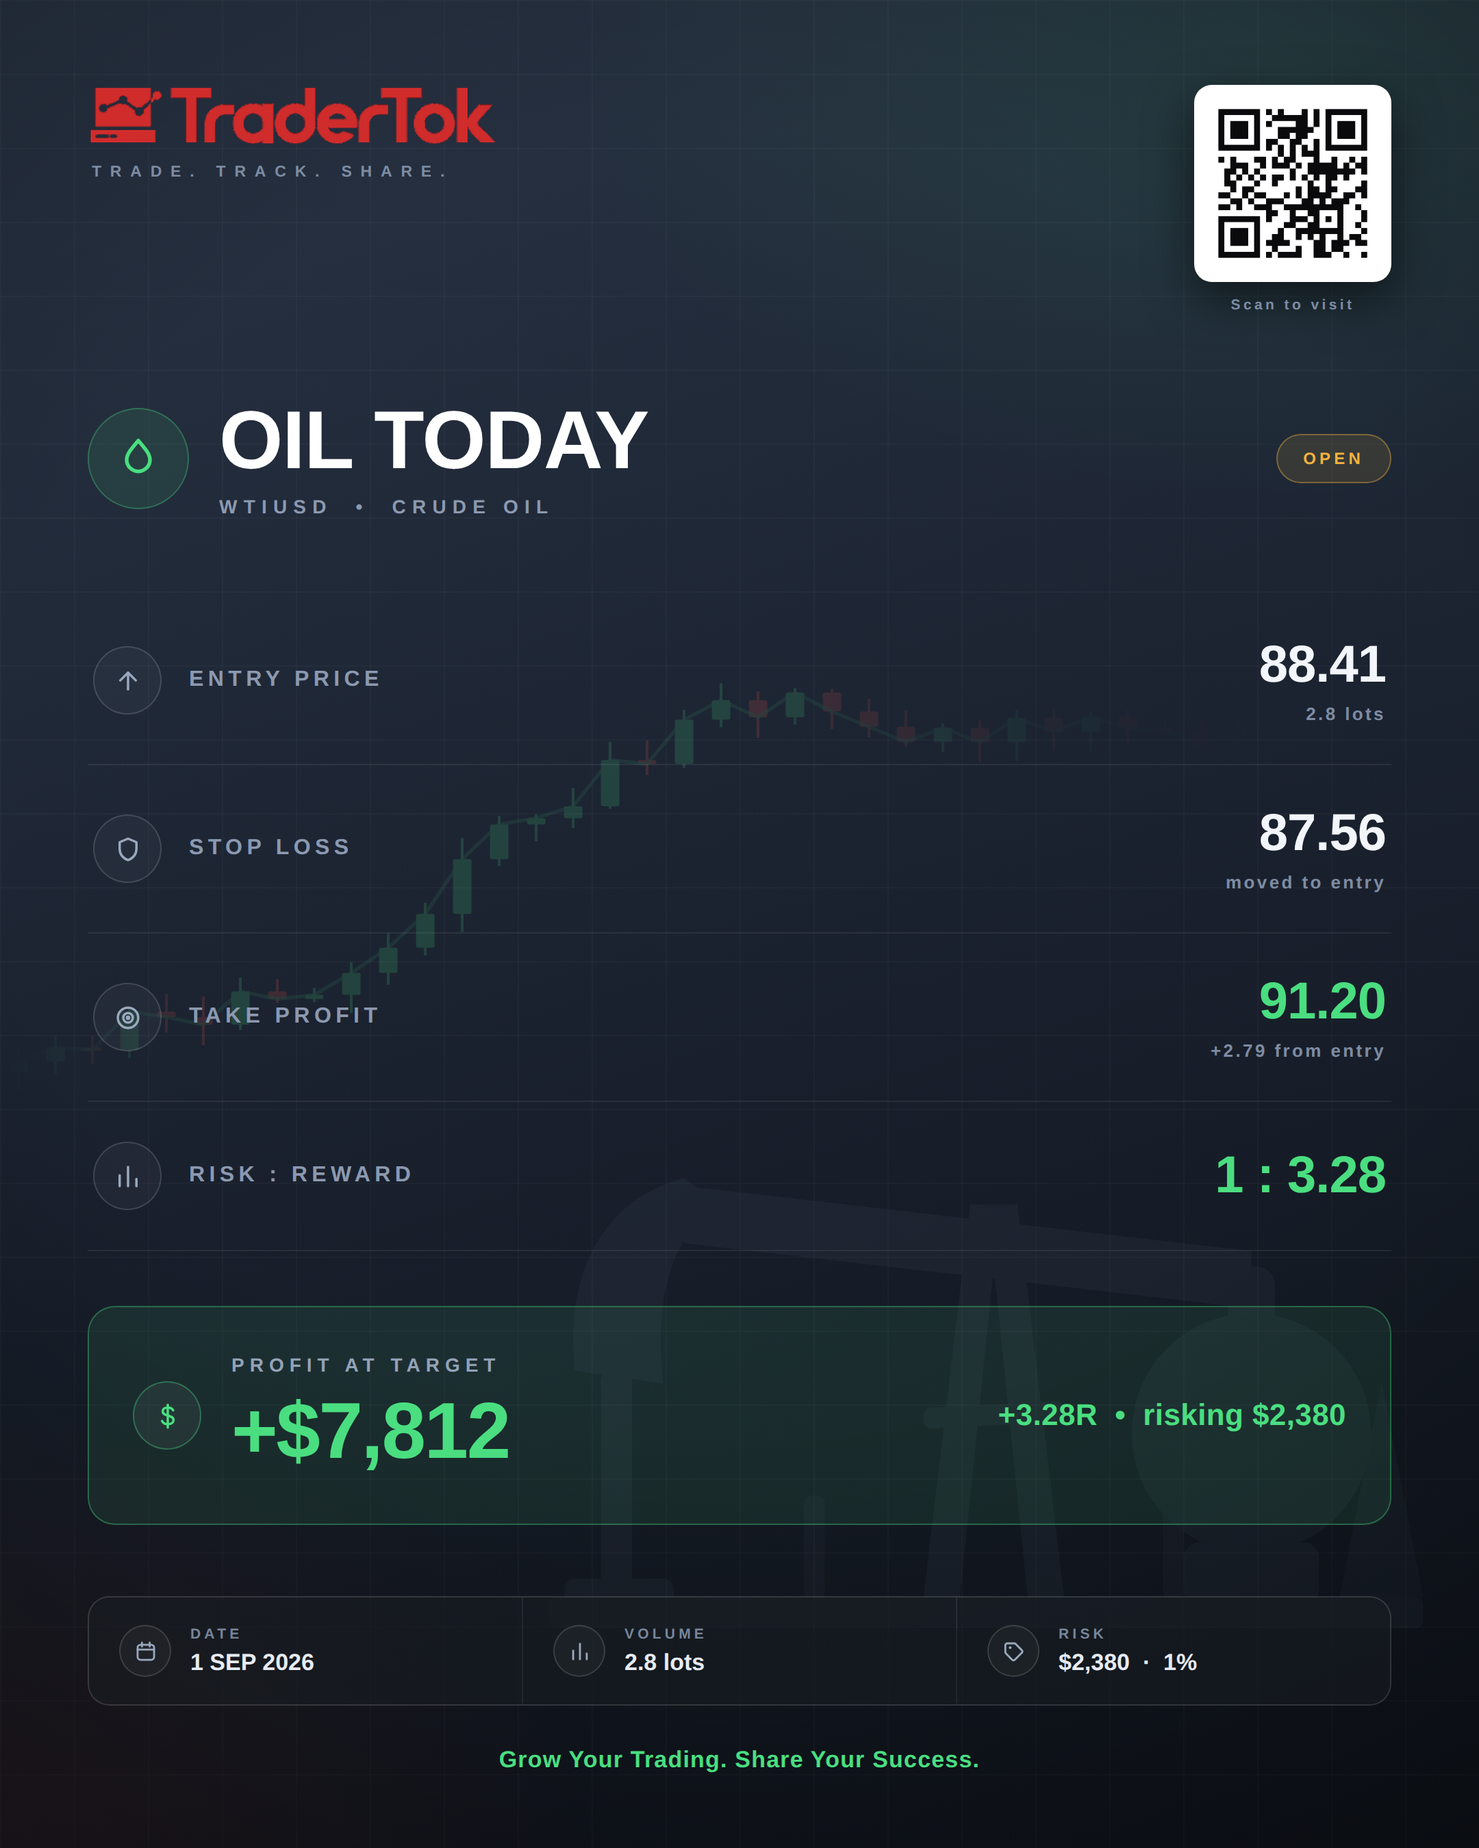
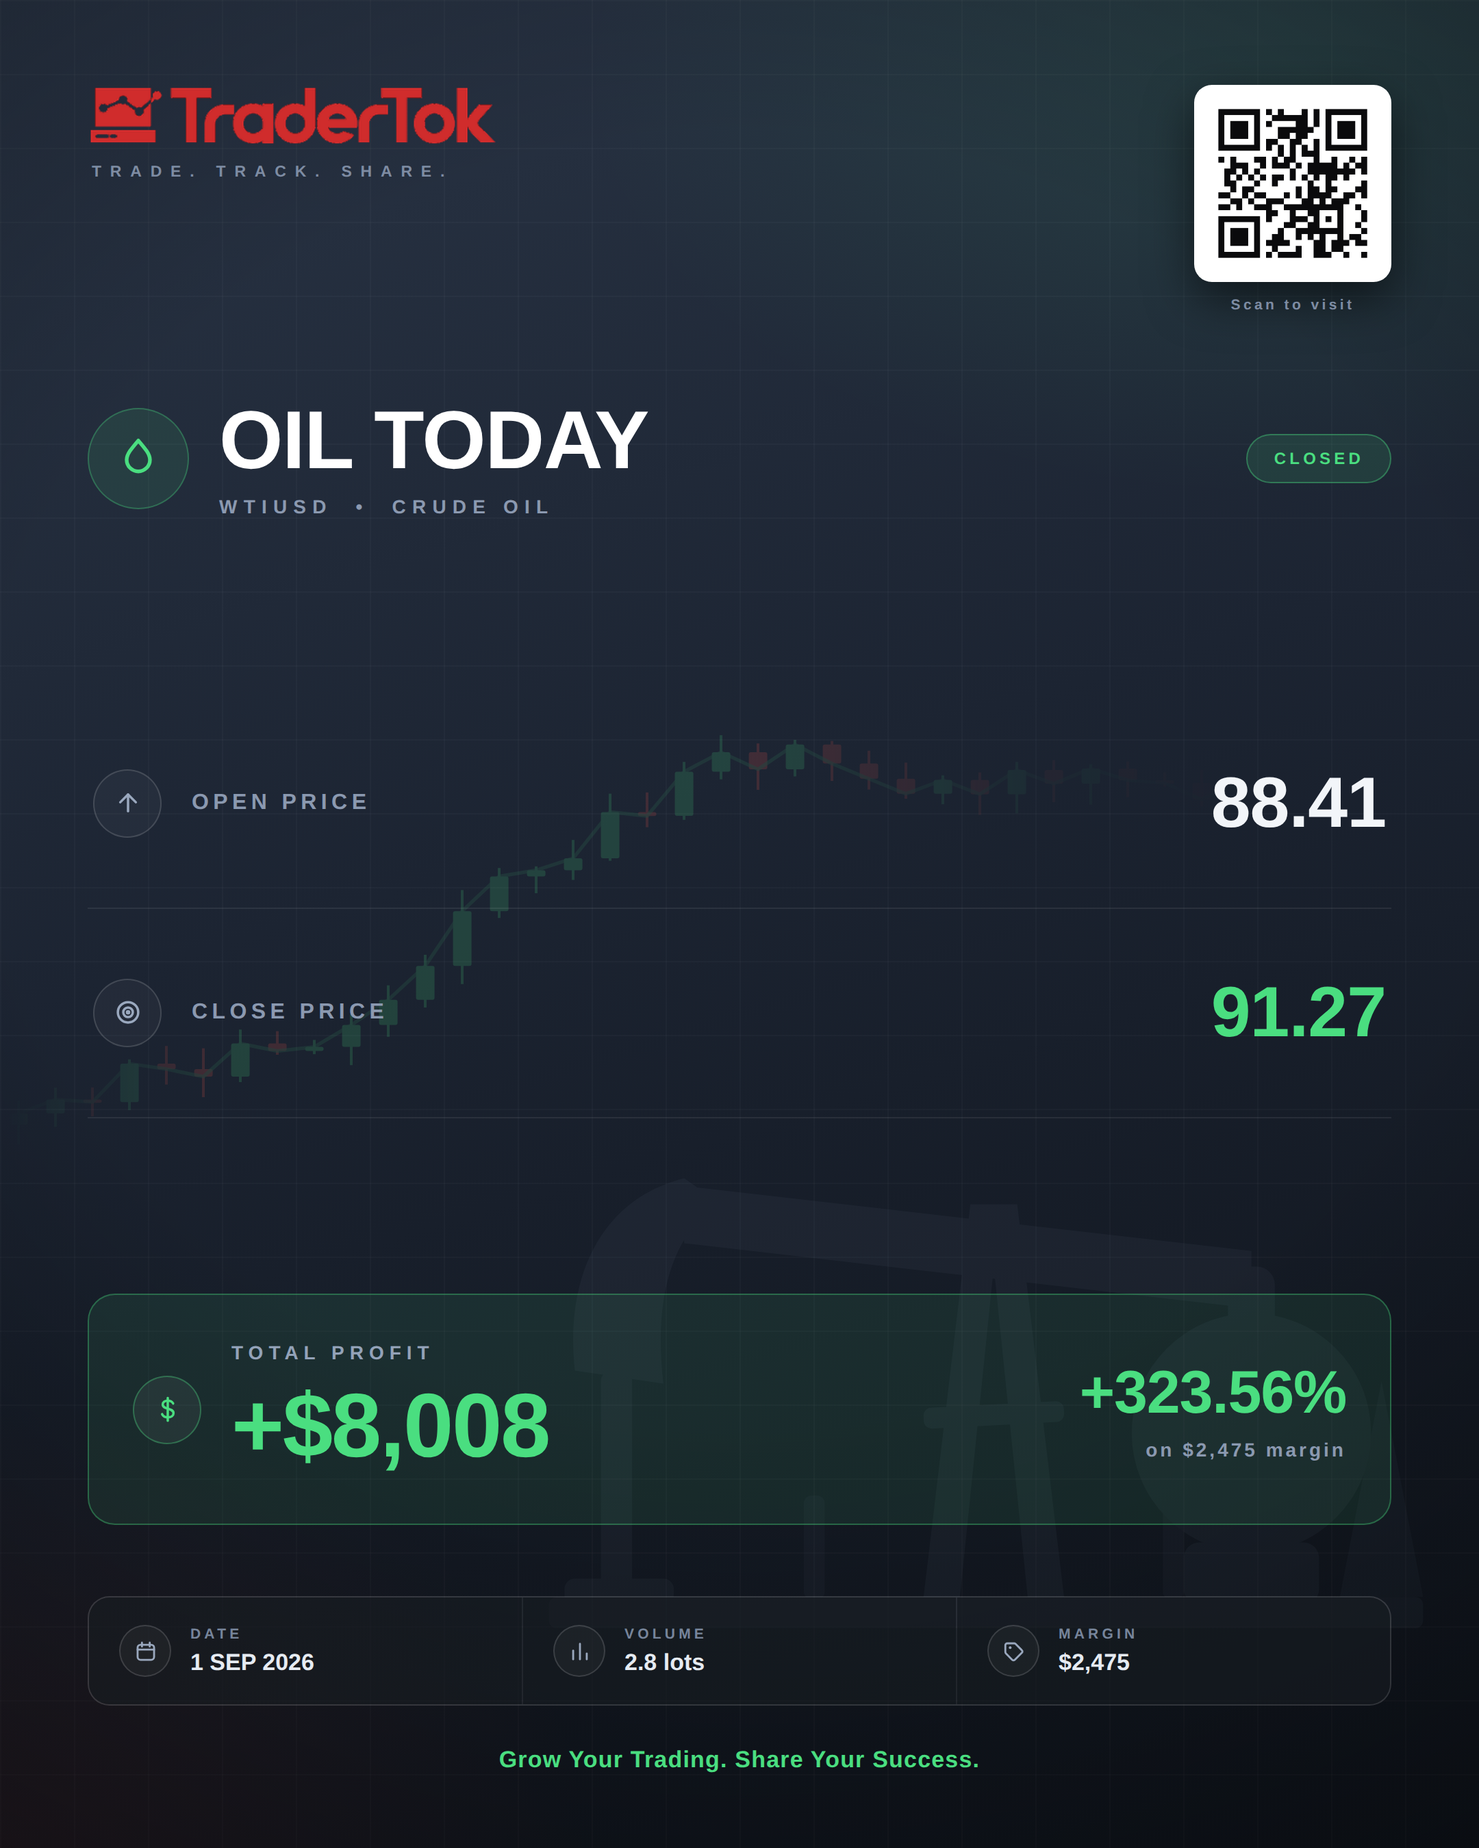
Reduce the performance card to open, close and total profit
Strips the stop loss, take profit and risk:reward rows. The card now
carries two price rows and one result panel holding the money and the
percentage side by side, with the margin it was earned on named beneath.

The two remaining rows flex into the space the removed ones freed rather
than leaving a gap above the footer, and the footer's risk column becomes
margin.

Rendered with a 91.27 close, the figure from the reference mockup, since
no real exit price has been supplied yet.

Claude-Session: https://claude.ai/code/session_01Fam1anDvbAYtoP9HG3kncU

diff --git a/trading/card/trader-tok-card.html b/trading/card/trader-tok-card.html
@@ -13,7 +13,7 @@ body{width:1080px;height:1350px;background:#0A0D13;overflow:hidden;
  background-size:54px 54px;}
 .rig{position:absolute;right:-58px;bottom:96px;opacity:.055;
  transform:scale(1.9);transform-origin:bottom right;}
-.cnd{position:absolute;left:0;right:0;top:392px;height:430px;opacity:.17;
+.cnd{position:absolute;left:0;right:0;top:430px;height:470px;opacity:.17;
  -webkit-mask-image:linear-gradient(to right,transparent 0%,#000 14%,#000 52%,
    rgba(0,0,0,.28) 70%,transparent 86%);}
 .vig{position:absolute;inset:0;
@@ -37,11 +37,11 @@ body{width:1080px;height:1350px;background:#0A0D13;overflow:hidden;
 .h1{font-size:60px;font-weight:700;color:#fff;letter-spacing:-.6px;line-height:1.04}
 .h2{font-size:14px;letter-spacing:4.6px;color:#8B99B0;font-weight:700;margin-top:9px}
 .chip{margin-left:auto;font-size:12px;font-weight:700;letter-spacing:2.6px;
- padding:10px 19px;border-radius:999px;color:#F2B23E;
- background:rgba(242,178,62,.12);border:1.5px solid rgba(242,178,62,.38)}
+ padding:10px 19px;border-radius:999px;color:#4ADE80;
+ background:rgba(74,222,128,.12);border:1.5px solid rgba(74,222,128,.38)}
 
-.rows{margin-top:58px}
-.row{display:flex;align-items:center;gap:20px;padding:29px 4px;
+.rows{margin-top:56px;flex:1;display:flex;flex-direction:column;justify-content:center}
+.row{display:flex;align-items:center;gap:22px;padding:46px 4px;
  border-bottom:1px solid rgba(255,255,255,.075)}
 .ic{width:50px;height:50px;border-radius:50%;flex:0 0 50px;display:flex;
  align-items:center;justify-content:center;border:1.5px solid rgba(255,255,255,.14);
@@ -49,21 +49,23 @@ body{width:1080px;height:1350px;background:#0A0D13;overflow:hidden;
 .ic.tiny{width:38px;height:38px;flex:0 0 38px}
 .ic.tiny svg{width:17px;height:17px}
 .rl{font-size:16px;letter-spacing:3.2px;color:#8B99B0;font-weight:700}
-.rv{margin-left:auto;text-align:right;font-size:38px;font-weight:700;
+.rv{margin-left:auto;text-align:right;font-size:52px;font-weight:700;
  letter-spacing:-.5px;color:#F2F5F9}
 .rv.good{color:#4ADE80} .rv.bad{color:#F0574B}
 .rs{display:block;font-size:13px;letter-spacing:1.7px;color:#7E8CA3;
  font-weight:700;margin-top:6px}
 
-.hl{margin-top:40px;display:flex;align-items:center;gap:22px;padding:34px 32px;
+.hl{margin-top:52px;display:flex;align-items:center;gap:22px;padding:34px 32px;
  border-radius:20px;background:rgba(74,222,128,.09);border:1.6px solid rgba(74,222,128,.34)}
 .hl .ic{border-color:rgba(74,222,128,.34);color:#4ADE80;background:rgba(255,255,255,.05)}
 .hk{font-size:14px;letter-spacing:4px;color:#93A2B8;font-weight:700}
-.hv{font-size:58px;font-weight:700;color:#4ADE80;letter-spacing:-1.2px;margin-top:7px}
-.hs{margin-left:auto;text-align:right;font-size:22px;font-weight:700;color:#4ADE80;
- letter-spacing:.2px}
+.hv{font-size:66px;font-weight:700;color:#4ADE80;letter-spacing:-1.2px;margin-top:7px}
+.hs{margin-left:auto;text-align:right;font-size:44px;font-weight:700;color:#4ADE80;
+ letter-spacing:-.6px}
+.hn{display:block;font-size:14px;font-weight:700;color:#8B99B0;letter-spacing:2px;
+ margin-top:8px}
 
-.foot{margin-top:auto;margin-bottom:2px;display:flex;gap:1px;background:rgba(255,255,255,.08);
+.foot{margin-top:52px;margin-bottom:2px;display:flex;gap:1px;background:rgba(255,255,255,.08);
  border:1px solid rgba(255,255,255,.08);border-radius:16px;overflow:hidden}
 .ft{flex:1;display:flex;align-items:center;gap:14px;padding:20px 22px;
  background:rgba(10,14,20,.55)}
@@ -105,17 +107,17 @@ body{width:1080px;height:1350px;background:#0A0D13;overflow:hidden;
         stroke="currentColor" stroke-width="1.9" stroke-linejoin="round"><path d="M12 2.7c3.6 4.2 6 7 6 9.9a6 6 0 1 1-12 0c0-2.9 2.4-5.7 6-9.9z"/></svg></div>
       <div><div class="h1">OIL TODAY</div>
            <div class="h2">WTIUSD &nbsp;&bull;&nbsp; CRUDE OIL</div></div>
-      <div class="chip">OPEN</div>
+      <div class="chip">CLOSED</div>
     </div>
 
-    <div class="rows"><div class="row"><div class="ic mute"><svg viewBox="0 0 24 24" width="21" height="21" fill="none" stroke="currentColor" stroke-width="2" stroke-linecap="round" stroke-linejoin="round"><path d="M12 19V5"/><path d="M5.5 11.5 12 5l6.5 6.5"/></svg></div><div class="rl">ENTRY PRICE</div><div class="rv val">88.41<span class="rs">2.8 lots</span></div></div><div class="row"><div class="ic mute"><svg viewBox="0 0 24 24" width="21" height="21" fill="none" stroke="currentColor" stroke-width="2" stroke-linecap="round" stroke-linejoin="round"><path d="M12 3 5 6v5.5c0 4.3 2.9 7.7 7 9.5 4.1-1.8 7-5.2 7-9.5V6z"/></svg></div><div class="rl">STOP LOSS</div><div class="rv val">87.56<span class="rs">moved to entry</span></div></div><div class="row"><div class="ic mute"><svg viewBox="0 0 24 24" width="21" height="21" fill="none" stroke="currentColor" stroke-width="2" stroke-linecap="round" stroke-linejoin="round"><circle cx="12" cy="12" r="8.5"/><circle cx="12" cy="12" r="4"/><circle cx="12" cy="12" r=".9" fill="currentColor"/></svg></div><div class="rl">TAKE PROFIT</div><div class="rv good">91.20<span class="rs">+2.79 from entry</span></div></div><div class="row"><div class="ic mute"><svg viewBox="0 0 24 24" width="21" height="21" fill="none" stroke="currentColor" stroke-width="2" stroke-linecap="round" stroke-linejoin="round"><path d="M5 20V11"/><path d="M12 20V4"/><path d="M19 20v-6"/></svg></div><div class="rl">RISK : REWARD</div><div class="rv good">1 : 3.28</div></div></div>
+    <div class="rows"><div class="row"><div class="ic mute"><svg viewBox="0 0 24 24" width="21" height="21" fill="none" stroke="currentColor" stroke-width="2" stroke-linecap="round" stroke-linejoin="round"><path d="M12 19V5"/><path d="M5.5 11.5 12 5l6.5 6.5"/></svg></div><div class="rl">OPEN PRICE</div><div class="rv val">88.41</div></div><div class="row"><div class="ic mute"><svg viewBox="0 0 24 24" width="21" height="21" fill="none" stroke="currentColor" stroke-width="2" stroke-linecap="round" stroke-linejoin="round"><circle cx="12" cy="12" r="8.5"/><circle cx="12" cy="12" r="4"/><circle cx="12" cy="12" r=".9" fill="currentColor"/></svg></div><div class="rl">CLOSE PRICE</div><div class="rv good">91.27</div></div></div>
 
     <div class="hl"><div class="ic mute"><svg viewBox="0 0 24 24" width="21" height="21" fill="none" stroke="currentColor" stroke-width="2" stroke-linecap="round" stroke-linejoin="round"><path d="M12 2.5v19"/><path d="M16.5 7.2c-.7-1.5-2.4-2.4-4.5-2.4-2.5 0-4.2 1.3-4.2 3.2 0 4.6 9 2.5 9 7.3 0 2-1.9 3.4-4.6 3.4-2.4 0-4.2-1-4.9-2.6"/></svg></div>
-      <div><div class="hk">PROFIT AT TARGET</div><div class="hv">+$7,812</div></div>
-      <div class="hs">+3.28R&nbsp;&nbsp;&bull;&nbsp;&nbsp;risking $2,380</div>
+      <div><div class="hk">TOTAL PROFIT</div><div class="hv">+$8,008</div></div>
+      <div class="hs">+323.56%<span class="hn">on $2,475 margin</span></div>
     </div>
 
-    <div class="foot"><div class="ft"><div class="ic tiny"><svg viewBox="0 0 24 24" width="21" height="21" fill="none" stroke="currentColor" stroke-width="2" stroke-linecap="round" stroke-linejoin="round"><rect x="3.5" y="5" width="17" height="15.5" rx="3"/><path d="M8 2.8v4M16 2.8v4M3.5 10h17"/></svg></div><div><div class="fk">DATE</div><div class="fv">1 SEP 2026</div></div></div><div class="ft"><div class="ic tiny"><svg viewBox="0 0 24 24" width="21" height="21" fill="none" stroke="currentColor" stroke-width="2" stroke-linecap="round" stroke-linejoin="round"><path d="M5 20V11"/><path d="M12 20V4"/><path d="M19 20v-6"/></svg></div><div><div class="fk">VOLUME</div><div class="fv">2.8 lots</div></div></div><div class="ft"><div class="ic tiny"><svg viewBox="0 0 24 24" width="21" height="21" fill="none" stroke="currentColor" stroke-width="2" stroke-linecap="round" stroke-linejoin="round"><path d="M20.5 12.7 12.8 20.4a2 2 0 0 1-2.8 0l-6.4-6.4a2 2 0 0 1-.6-1.4V5.5a2 2 0 0 1 2-2h7.1a2 2 0 0 1 1.4.6l6.4 6.4a2 2 0 0 1 .6 2.2z"/><circle cx="8" cy="8" r="1.4" fill="currentColor" stroke="none"/></svg></div><div><div class="fk">RISK</div><div class="fv">$2,380 &nbsp;·&nbsp; 1%</div></div></div></div>
+    <div class="foot"><div class="ft"><div class="ic tiny"><svg viewBox="0 0 24 24" width="21" height="21" fill="none" stroke="currentColor" stroke-width="2" stroke-linecap="round" stroke-linejoin="round"><rect x="3.5" y="5" width="17" height="15.5" rx="3"/><path d="M8 2.8v4M16 2.8v4M3.5 10h17"/></svg></div><div><div class="fk">DATE</div><div class="fv">1 SEP 2026</div></div></div><div class="ft"><div class="ic tiny"><svg viewBox="0 0 24 24" width="21" height="21" fill="none" stroke="currentColor" stroke-width="2" stroke-linecap="round" stroke-linejoin="round"><path d="M5 20V11"/><path d="M12 20V4"/><path d="M19 20v-6"/></svg></div><div><div class="fk">VOLUME</div><div class="fv">2.8 lots</div></div></div><div class="ft"><div class="ic tiny"><svg viewBox="0 0 24 24" width="21" height="21" fill="none" stroke="currentColor" stroke-width="2" stroke-linecap="round" stroke-linejoin="round"><path d="M20.5 12.7 12.8 20.4a2 2 0 0 1-2.8 0l-6.4-6.4a2 2 0 0 1-.6-1.4V5.5a2 2 0 0 1 2-2h7.1a2 2 0 0 1 1.4.6l6.4 6.4a2 2 0 0 1 .6 2.2z"/><circle cx="8" cy="8" r="1.4" fill="currentColor" stroke="none"/></svg></div><div><div class="fk">MARGIN</div><div class="fv">$2,475</div></div></div></div>
     <div class="tag">Grow Your Trading. Share Your Success.</div>
   </div>
 </div></body></html>

diff --git a/trading/generate_card.py b/trading/generate_card.py
@@ -30,7 +30,7 @@ TRADE = dict(
     side="LONG", leverage=100, value_per_lot=1000.0,
     entry=88.41, volume=2.8, margin=2475.0,
     stop=87.56, target=91.20, moved_to_entry=True,
-    closed=None,                     # set the exit price to make it a result card
+    closed=91.27,                    # set to None while the position is open
     date="1 SEP 2026", time="—",
 )
 
@@ -141,32 +141,26 @@ G_TAG = ('<path d="M20.5 12.7 12.8 20.4a2 2 0 0 1-2.8 0l-6.4-6.4a2 2 0 0 1-.6-1.
 
 # ------------------------------------------------------------------- rows ---
 if CLOSED:
+    good = T["pnl"] >= 0
     rows = [
         (G_ARROW, "OPEN PRICE", "%.2f" % T["entry"], "", "val"),
-        (G_TARGET, "CLOSE PRICE", "%.2f" % T["closed"], "", "good" if T["pnl"] >= 0 else "bad"),
-        (G_BARS, "PRICE MOVE", "%+.2f" % T["move"], "%+.2f%%" % (T["move"] / T["entry"] * 100),
-         "good" if T["pnl"] >= 0 else "bad"),
-        (G_SHIELD, "RETURN ON MARGIN", "%+.2f%%" % T["roi"], "",
-         "good" if T["pnl"] >= 0 else "bad"),
+        (G_TARGET, "CLOSE PRICE", "%.2f" % T["closed"], "", "good" if good else "bad"),
     ]
-    hl_label = "PROFIT" if T["pnl"] >= 0 else "LOSS"
+    hl_label = "TOTAL PROFIT" if good else "TOTAL LOSS"
     hl_big = usd(T["pnl"], sign=True)
-    hl_sub = "%+.2fR&nbsp;&nbsp;&bull;&nbsp;&nbsp;%+.2f%% on margin" % (T["pnl_r"], T["roi"])
-    hl_good = T["pnl"] >= 0
+    hl_sub = "%+.2f%%" % T["roi"]
+    hl_note = "on %s margin" % usd(TRADE["margin"])
+    hl_good = good
     status = "CLOSED"
 else:
     rows = [
-        (G_ARROW, "ENTRY PRICE", "%.2f" % T["entry"], "%g lots" % T["volume"], "val"),
-        (G_SHIELD, "STOP LOSS", "%.2f" % T["stop"],
-         "moved to entry" if T["moved_to_entry"] else "", "val"),
-        (G_TARGET, "TAKE PROFIT", "%.2f" % T["target"],
-         "%+.2f from entry" % T["tp_dist"], "good"),
-        (G_BARS, "RISK : REWARD", "1 : %.2f" % T["rr"], "", "good"),
+        (G_ARROW, "OPEN PRICE", "%.2f" % T["entry"], "", "val"),
+        (G_TARGET, "CLOSE PRICE", "--", "position still open", "val"),
     ]
     hl_label = "PROFIT AT TARGET"
     hl_big = usd(T["reward"], sign=True)
-    hl_sub = "%+.2fR&nbsp;&nbsp;&bull;&nbsp;&nbsp;risking %s" % (
-        T["rr"], usd(T["risk"]))
+    hl_sub = "%+.2f%%" % (T["reward"] / TRADE["margin"] * 100)
+    hl_note = "on %s margin" % usd(TRADE["margin"])
     hl_good = True
     status = "OPEN"
 
@@ -179,7 +173,7 @@ row_html = "".join(
 
 feet = [(G_CAL, "DATE", TRADE["date"]),
         (G_BARS, "VOLUME", "%g lots" % TRADE["volume"]),
-        (G_TAG, "RISK", "%s &nbsp;·&nbsp; 1%%" % usd(T["risk"]))]
+        (G_TAG, "MARGIN", usd(TRADE["margin"]))]
 foot_html = "".join(
     '<div class="ft">%s<div><div class="fk">%s</div><div class="fv">%s</div></div></div>'
     % (ring(g, "tiny"), k, v) for g, k, v in feet)
@@ -199,7 +193,7 @@ body{{width:{W}px;height:{H}px;background:#0A0D13;overflow:hidden;
  background-size:54px 54px;}}
 .rig{{position:absolute;right:-58px;bottom:96px;opacity:.055;
  transform:scale(1.9);transform-origin:bottom right;}}
-.cnd{{position:absolute;left:0;right:0;top:392px;height:430px;opacity:.17;
+.cnd{{position:absolute;left:0;right:0;top:430px;height:470px;opacity:.17;
  -webkit-mask-image:linear-gradient(to right,transparent 0%,#000 14%,#000 52%,
    rgba(0,0,0,.28) 70%,transparent 86%);}}
 .vig{{position:absolute;inset:0;
@@ -226,8 +220,8 @@ body{{width:{W}px;height:{H}px;background:#0A0D13;overflow:hidden;
  padding:10px 19px;border-radius:999px;color:{SC};
  background:{SBG};border:1.5px solid {SBD}}}
 
-.rows{{margin-top:58px}}
-.row{{display:flex;align-items:center;gap:20px;padding:29px 4px;
+.rows{{margin-top:56px;flex:1;display:flex;flex-direction:column;justify-content:center}}
+.row{{display:flex;align-items:center;gap:22px;padding:46px 4px;
  border-bottom:1px solid rgba(255,255,255,.075)}}
 .ic{{width:50px;height:50px;border-radius:50%;flex:0 0 50px;display:flex;
  align-items:center;justify-content:center;border:1.5px solid rgba(255,255,255,.14);
@@ -235,21 +229,23 @@ body{{width:{W}px;height:{H}px;background:#0A0D13;overflow:hidden;
 .ic.tiny{{width:38px;height:38px;flex:0 0 38px}}
 .ic.tiny svg{{width:17px;height:17px}}
 .rl{{font-size:16px;letter-spacing:3.2px;color:#8B99B0;font-weight:700}}
-.rv{{margin-left:auto;text-align:right;font-size:38px;font-weight:700;
+.rv{{margin-left:auto;text-align:right;font-size:52px;font-weight:700;
  letter-spacing:-.5px;color:#F2F5F9}}
 .rv.good{{color:#4ADE80}} .rv.bad{{color:#F0574B}}
 .rs{{display:block;font-size:13px;letter-spacing:1.7px;color:#7E8CA3;
  font-weight:700;margin-top:6px}}
 
-.hl{{margin-top:40px;display:flex;align-items:center;gap:22px;padding:34px 32px;
+.hl{{margin-top:52px;display:flex;align-items:center;gap:22px;padding:34px 32px;
  border-radius:20px;background:{HBG};border:1.6px solid {HBD}}}
 .hl .ic{{border-color:{HBD};color:{HC};background:rgba(255,255,255,.05)}}
 .hk{{font-size:14px;letter-spacing:4px;color:#93A2B8;font-weight:700}}
-.hv{{font-size:58px;font-weight:700;color:{HC};letter-spacing:-1.2px;margin-top:7px}}
-.hs{{margin-left:auto;text-align:right;font-size:22px;font-weight:700;color:{HC};
- letter-spacing:.2px}}
+.hv{{font-size:66px;font-weight:700;color:{HC};letter-spacing:-1.2px;margin-top:7px}}
+.hs{{margin-left:auto;text-align:right;font-size:44px;font-weight:700;color:{HC};
+ letter-spacing:-.6px}}
+.hn{{display:block;font-size:14px;font-weight:700;color:#8B99B0;letter-spacing:2px;
+ margin-top:8px}}
 
-.foot{{margin-top:auto;margin-bottom:2px;display:flex;gap:1px;background:rgba(255,255,255,.08);
+.foot{{margin-top:52px;margin-bottom:2px;display:flex;gap:1px;background:rgba(255,255,255,.08);
  border:1px solid rgba(255,255,255,.08);border-radius:16px;overflow:hidden}}
 .ft{{flex:1;display:flex;align-items:center;gap:14px;padding:20px 22px;
  background:rgba(10,14,20,.55)}}
@@ -283,7 +279,7 @@ body{{width:{W}px;height:{H}px;background:#0A0D13;overflow:hidden;
 
     <div class="hl">{HLIC}
       <div><div class="hk">{HLK}</div><div class="hv">{HLV}</div></div>
-      <div class="hs">{HLS}</div>
+      <div class="hs">{HLS}<span class="hn">{HLN}</span></div>
     </div>
 
     <div class="foot">{FOOT}</div>
@@ -300,7 +296,7 @@ body{{width:{W}px;height:{H}px;background:#0A0D13;overflow:hidden;
     HBG="rgba(74,222,128,.09)" if hl_good else "rgba(240,87,75,.09)",
     HBD="rgba(74,222,128,.34)" if hl_good else "rgba(240,87,75,.34)",
     HC="#4ADE80" if hl_good else "#F0574B",
-    HLIC=ring(G_DOLLAR), HLK=hl_label, HLV=hl_big, HLS=hl_sub,
+    HLIC=ring(G_DOLLAR), HLK=hl_label, HLV=hl_big, HLS=hl_sub, HLN=hl_note,
     FOOT=foot_html, TAGLINE=TAGLINE)
 
 OUTDIR.mkdir(parents=True, exist_ok=True)

diff --git a/trading/README.md b/trading/README.md
@@ -83,11 +83,15 @@ python3 trading/generate_card.py
 ```
 
 Layout: brand lockup and QR across the top, headline block with the asset
-icon and status chip, one labelled row per figure, a highlighted result
-panel, a three-up footer and the tagline. Behind it sit a seeded candle
-walk and a pumpjack silhouette, both decorative — the candles are not a
-price history and are masked away from the value column so the numbers stay
-legible.
+icon and status chip, two price rows, a highlighted result panel carrying the
+money and the percentage, a three-up footer and the tagline. Behind it sit a
+seeded candle walk and a pumpjack silhouette, both decorative — the candles
+are not a price history and are masked away from the value column.
+
+The card reports three things only: open price, close price, and the total
+profit in money and percent. The percent is return on the margin the position
+used; change `hl_sub` in the script to report it against free margin or as the
+raw price move instead.
 
 Brand assets:
 
